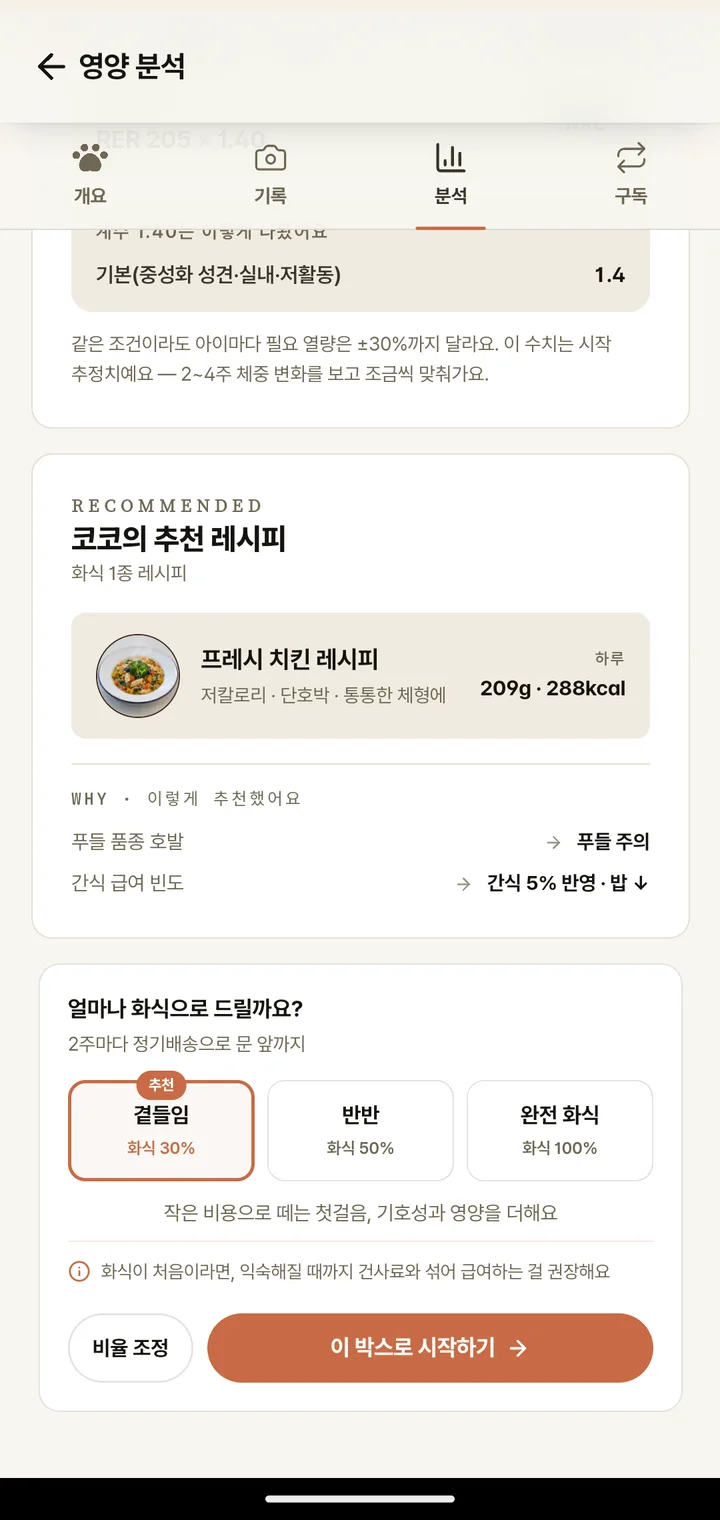
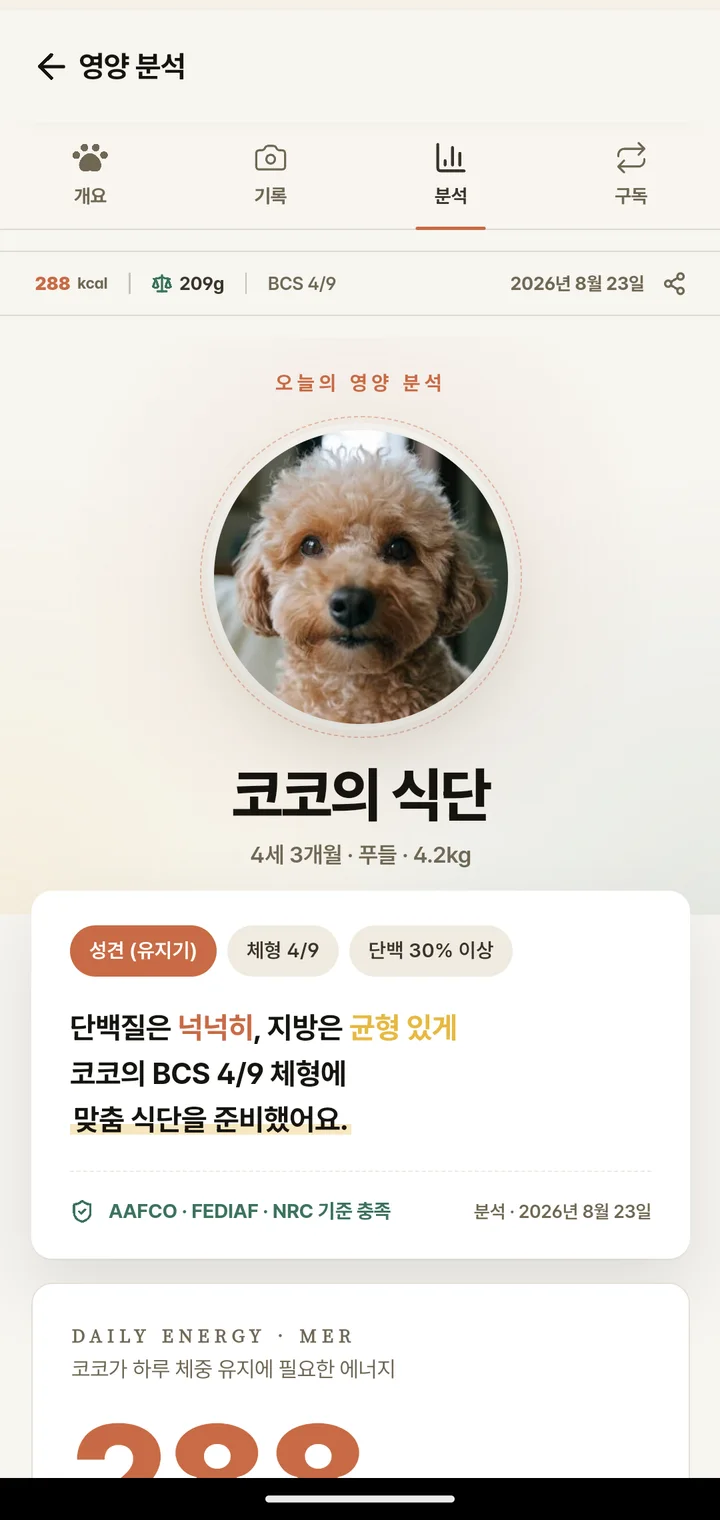
온보딩 다듬기 — 분석 화면을 상단 컷으로, 배지 겹침 정리
- 분석 자산: 스크롤 중간 컷은 스티키 헤더 전환 잔상이 남아 맨 위 컷으로 교체
  (원형 강아지 사진·코코의 식단·AAFCO 기준 충족이 보이는 화면)
- 보고서: 배지가 체중 그래프를 덮던 것을 그래프 위로 올림
- 구독: 카드 아래 빈 자리로 배지 둘을 내려 균형

diff --git a/components/Onboarding.tsx b/components/Onboarding.tsx
@@ -56,8 +56,8 @@ const SLIDES: Slide[] = [
     punch: '맞춤 레시피가 나와요',
     note: '필요한 열량과 하루 급여량까지 그램 단위로 계산해요',
     badges: [
-      { kind: 'photo', src: '/bowl/chicken.webp', side: 'right', top: '18%' },
-      { kind: 'chip', text: '그램 단위 급여량', tone: 'accent', side: 'left', top: '44%' },
+      { kind: 'chip', text: '그램 단위 급여량', tone: 'accent', side: 'left', top: '14%' },
+      { kind: 'photo', src: '/bowl/chicken.webp', side: 'right', top: '30%' },
     ],
   },
   {
@@ -66,8 +66,9 @@ const SLIDES: Slide[] = [
     punch: '종이 한 장이면 끝나요',
     note: '12개월 체중 추이·식이·분석을 A4 한 장으로 정리해 드려요',
     badges: [
-      { kind: 'chip', text: 'PDF 저장', tone: 'plain', side: 'right', top: '8%' },
-      { kind: 'chip', text: '12개월 체중 추이', tone: 'accent', side: 'left', top: '48%' },
+      { kind: 'chip', text: 'PDF 저장', tone: 'plain', side: 'right', top: '5%' },
+      // 44% — 체중 그래프(자산 기준 53~60%)를 덮지 않도록 그 바로 위에 세운다.
+      { kind: 'chip', text: '12개월 체중 추이', tone: 'accent', side: 'left', top: '44%' },
     ],
   },
   {
@@ -77,9 +78,10 @@ const SLIDES: Slide[] = [
     note: '화식 비율·배송일 변경, 일시정지와 해지 모두 앱에서 해요',
     badges: [
       // 규칙31 — "언제든 해지/일시정지"는 과약속. 마감을 명시하거나 중립 표기.
-      { kind: 'chip', text: '2주 미루기·일시정지', tone: 'accent', side: 'left', top: '42%' },
-      // 구독 카드 아래가 비어 보여서, 그 자리를 파우치 사진이 채우게 내렸다.
-      { kind: 'photo', src: '/pkg/pork.webp', side: 'right', top: '62%' },
+      // 구독 카드는 자산의 위 53% 만 쓰고 아래가 빈다. 배지 둘을 그 빈 자리에
+      // 내려 균형을 맞춘다 — 카드 위에 겹치면 버튼 글자를 가린다.
+      { kind: 'chip', text: '2주 미루기·일시정지', tone: 'accent', side: 'left', top: '58%' },
+      { kind: 'photo', src: '/pkg/pork.webp', side: 'right', top: '70%' },
     ],
   },
 ]
